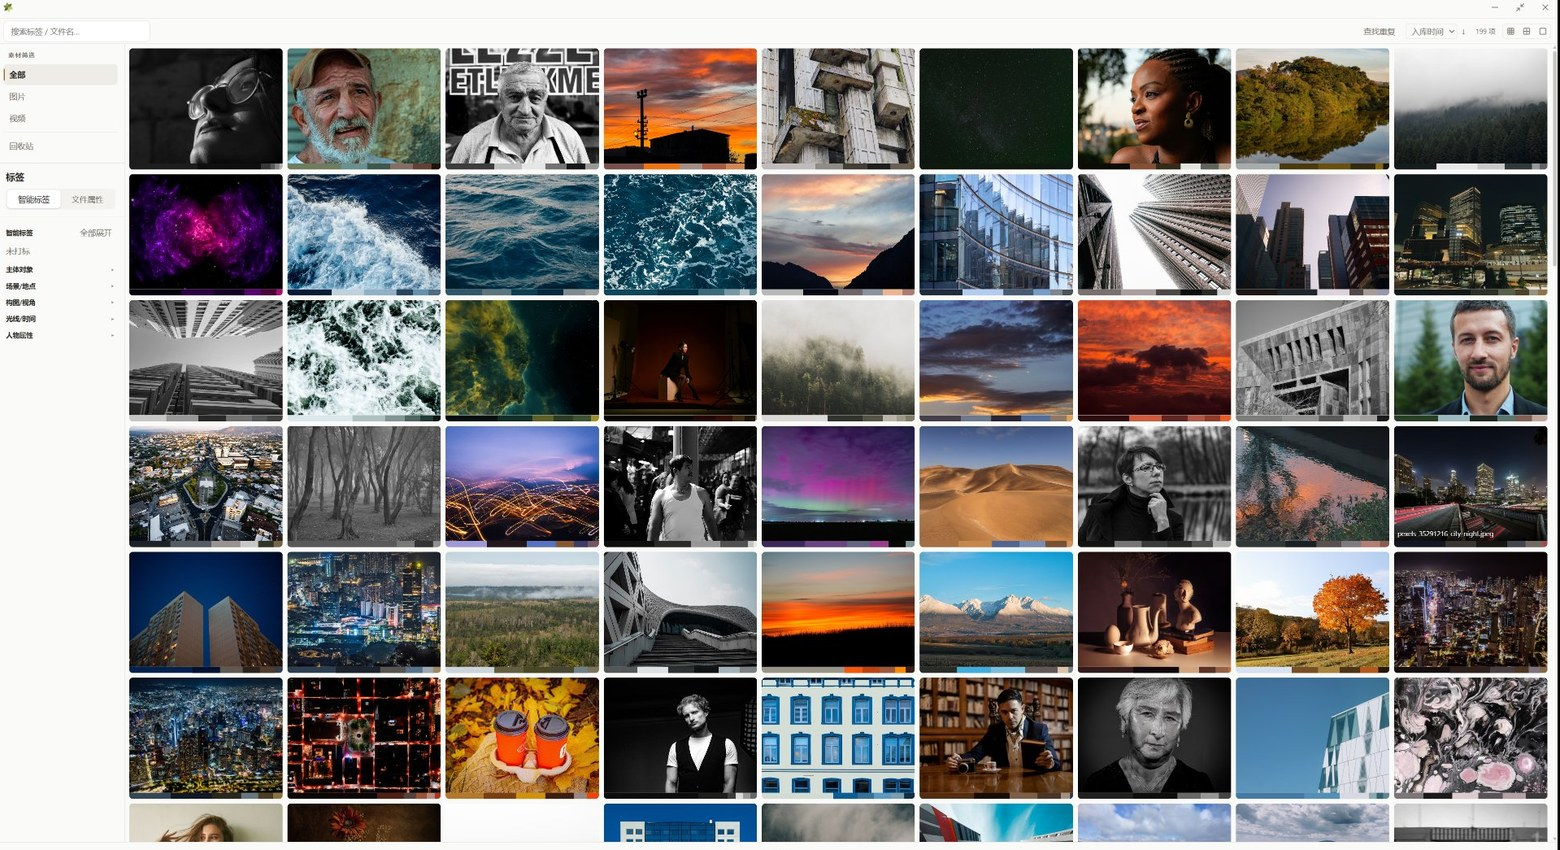
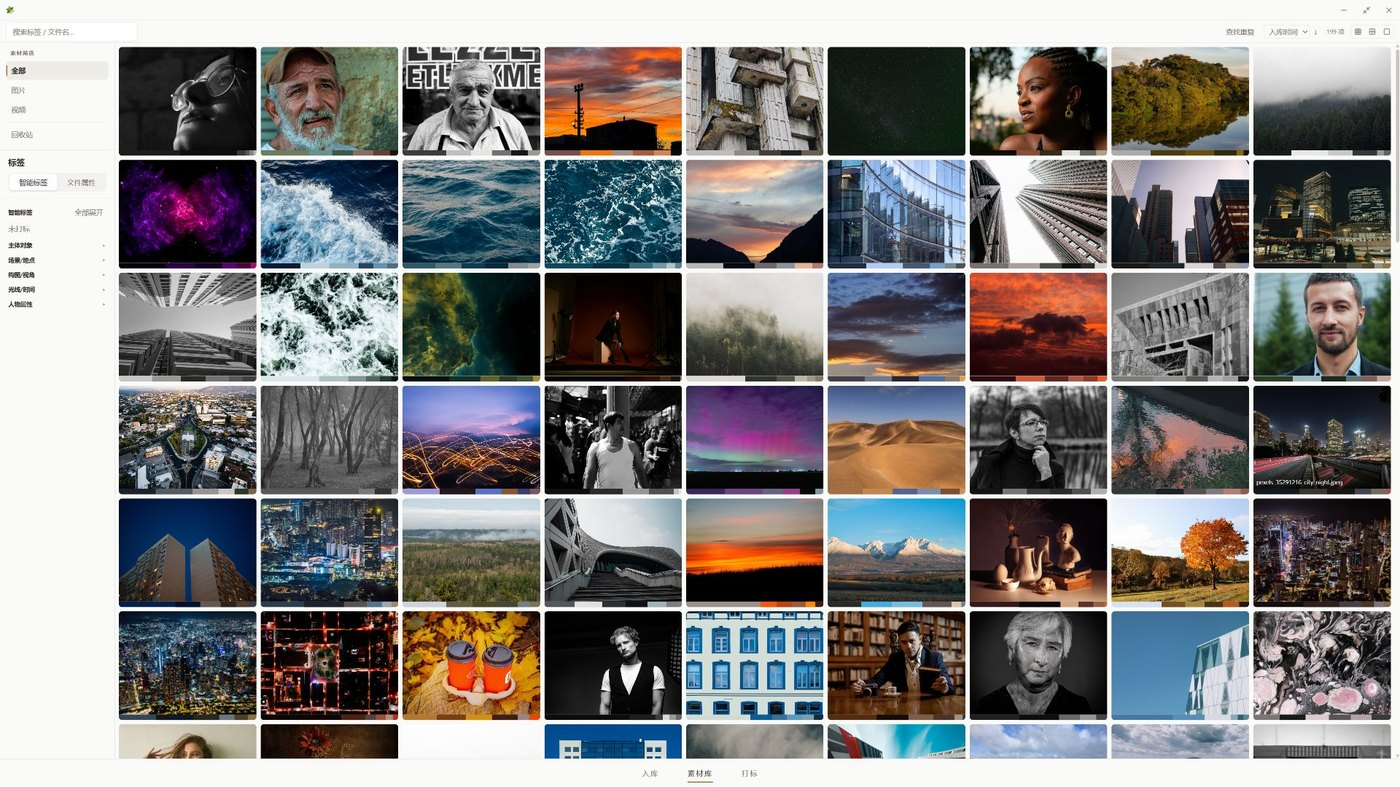
docs: 界面截图改为四张独立图并补充说明
- 移除首屏大图，界面截图统一放在「界面」小节
- 素材库、打标工作台、超级搜索各一张，入库页换用最新截图
- 每张图下方居中标注该界面的用途
- 截图统一压缩为 1400x787 JPEG，合计约 760KB

diff --git a/README.md b/README.md
@@ -17,10 +17,6 @@
 
 </div>
 
-<p align="center">
-  <img src="docs/assets/screenshot-library.jpg" alt="素材库主界面" width="100%"/>
-</p>
-
 ## 功能
 
 - **导入**：扫描文件夹，检查重复文件，预览改名结果；支持常见图片、HEIC、RAW 和视频格式。
@@ -35,11 +31,35 @@
 ### 界面
 
 <p align="center">
-  <img src="docs/assets/screenshot-montage.jpg" alt="素材库、超级搜索、打标工作台与入库页" width="100%"/>
+  <img src="docs/assets/screenshot-library.jpg" alt="素材库" width="100%"/>
 </p>
 
 <p align="center">
-  <sub>左上 素材库 · 右上 打标工作台 · 左下 超级搜索 · 右下 入库页</sub>
+  <sub>素材库：缩略图网格，支持评分、收藏和按来源、标签筛选</sub>
+</p>
+
+<p align="center">
+  <img src="docs/assets/screenshot-tagging.jpg" alt="打标工作台" width="100%"/>
+</p>
+
+<p align="center">
+  <sub>打标工作台：批量编辑标签和描述，AI 建议需确认后写入</sub>
+</p>
+
+<p align="center">
+  <img src="docs/assets/screenshot-search.jpg" alt="超级搜索" width="100%"/>
+</p>
+
+<p align="center">
+  <sub>超级搜索：组合必须、优先和排除条件，跨关键词与元数据筛选</sub>
+</p>
+
+<p align="center">
+  <img src="docs/assets/screenshot-import.jpg" alt="入库页" width="100%"/>
+</p>
+
+<p align="center">
+  <sub>入库页：扫描文件夹，检查重复和改名结果后再确认导入</sub>
 </p>
 
 ## 下载
